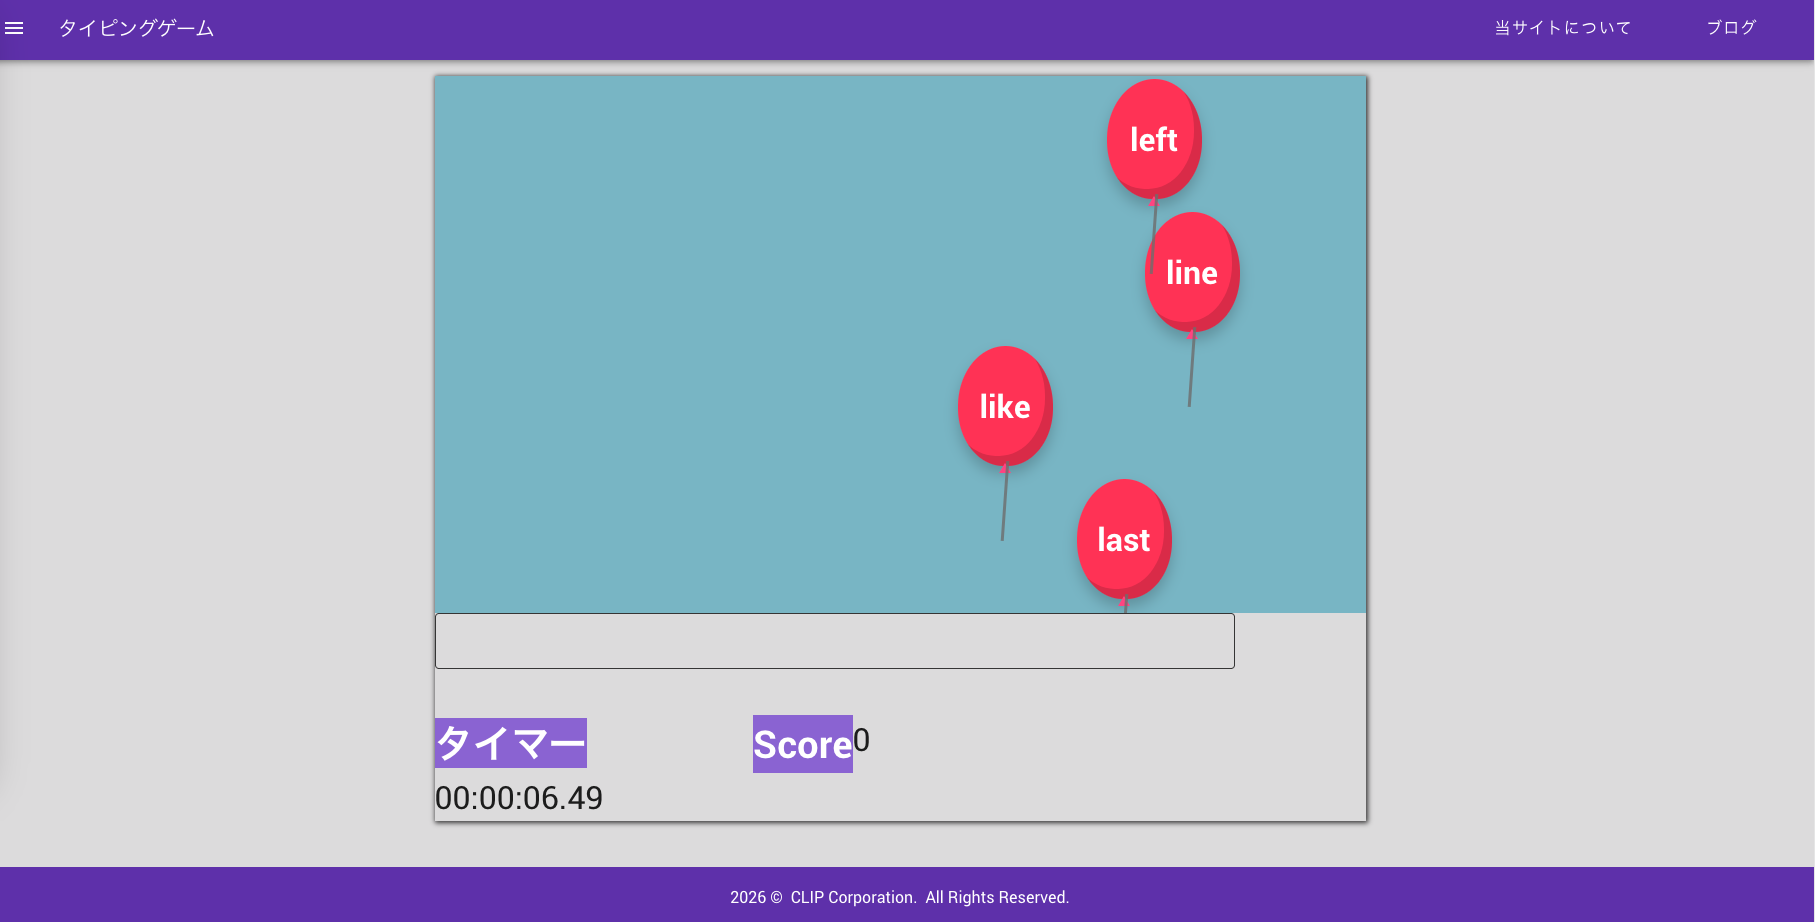
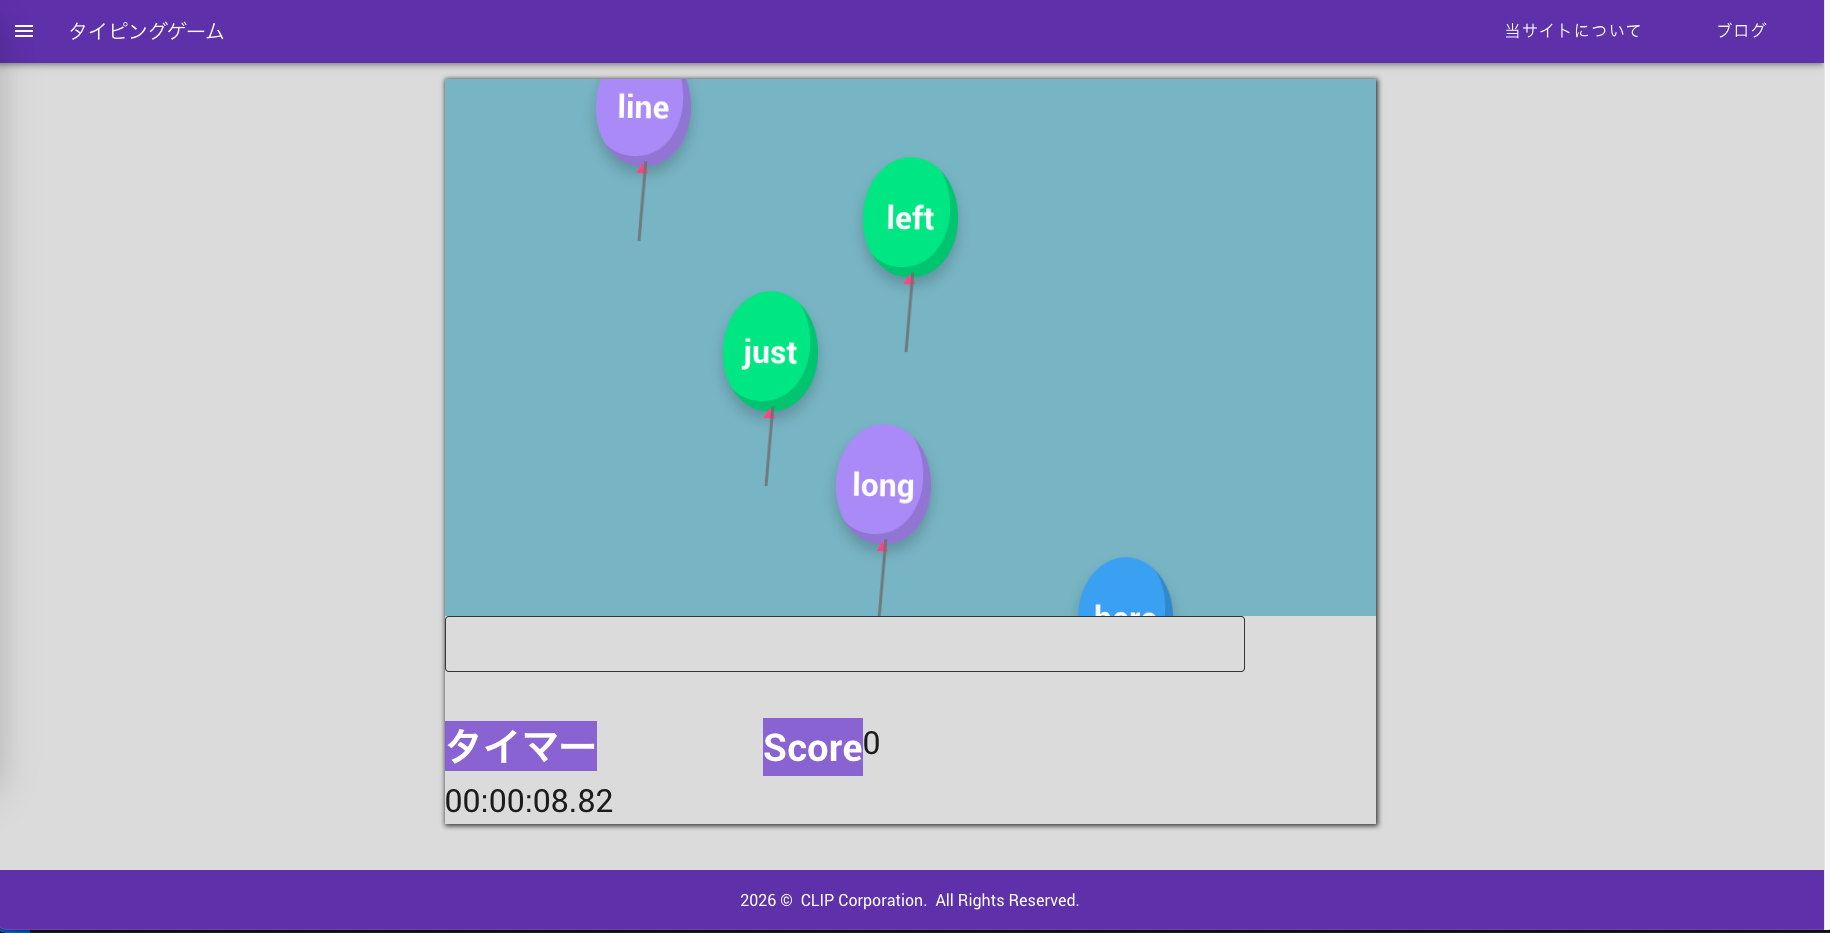
update: README.md

diff --git a/README.md b/README.md
@@ -2,66 +2,69 @@
 
 ## 概要
 
-Vue3 + TypeScriptで作成したタイピングゲームです。
+Vue3 + TypeScript で作成したタイピングゲームです。
 画面上に表示される単語を入力し、スコアを競います。
 単語は風船（バルーン）として表示され、入力成功で破裂する演出を実装しています。
+画面下から浮かび上がる風船型の単語を入力するタイピングゲームです。
 
 ---
+
 ## スクリーンショット
 
 ![ゲーム画面](./public/images/typing-baloon-demo.png)
 
 ## デモ
 
-※GitHub Pages URLをここに貼る
+※GitHub Pages URL をここに貼る
 
 ---
 
 ## 使用技術
 
-* Vue 3
-* TypeScript
-* Vite
-* Pinia（状態管理）
-* Vuetify（UI）
-* Vitest（テスト）
+- Vue 3
+- TypeScript
+- Vite
+- Pinia（状態管理）
+- Vuetify（UI）
+- Vitest（テスト）
 
 ---
 
 ## 主な機能
 
-* タイピング入力判定
-* スコア表示・更新
-* 難易度設定
-* スコア保存（localStorage）
-* ゲームオーバー判定
-* 風船UI表示
+- タイピング入力判定
+- スコア表示・更新
+- 難易度設定
+- スコア保存（localStorage）
+- ゲームオーバー判定
+- 風船 UI 表示
 
 ---
 
 ## 工夫した点
 
-* Piniaを使い、ゲーム設定とスコアを一元管理
-* localStorageを利用してスコアを永続化
-* setIntervalのタイマーIDを管理し、多重起動バグを防止
-* コンポーネント分割により、保守性を向上（Game / Score / Config）
-* Vitestを導入し、ユーティリティ関数のテストを実装
-* CSSを工夫し、風船UIでゲームらしい演出を実装
+- Pinia を使い、ゲーム設定とスコアを一元管理
+- localStorage を利用してスコアを永続化
+- setInterval のタイマー ID を管理し、多重起動バグを防止
+- コンポーネント分割により、保守性を向上（Game / Score / Config）
+- Vitest を導入し、ユーティリティ関数のテストを実装
+- CSS を工夫し、風船 UI でゲームらしい演出を実装
+
 ---
 
 ## 苦労した点
 
-* setIntervalの管理が難しく、多重起動バグの対応に時間がかかった
-* Vueのリアクティブ更新とタイマー処理の整合性調整
+- setInterval の管理が難しく、多重起動バグの対応に時間がかかった
+- Vue のリアクティブ更新とタイマー処理の整合性調整
 
 ---
 
 ## 今後の改善
 
-* 仮想キーボードの追加
-* ランキング機能
-* UI/UXの強化
-* Nuxtへの移行検討
+- 仮想キーボードの追加
+- ランキング機能
+- UI/UX の強化
+- Nuxt への移行検討
 
 ---
 
